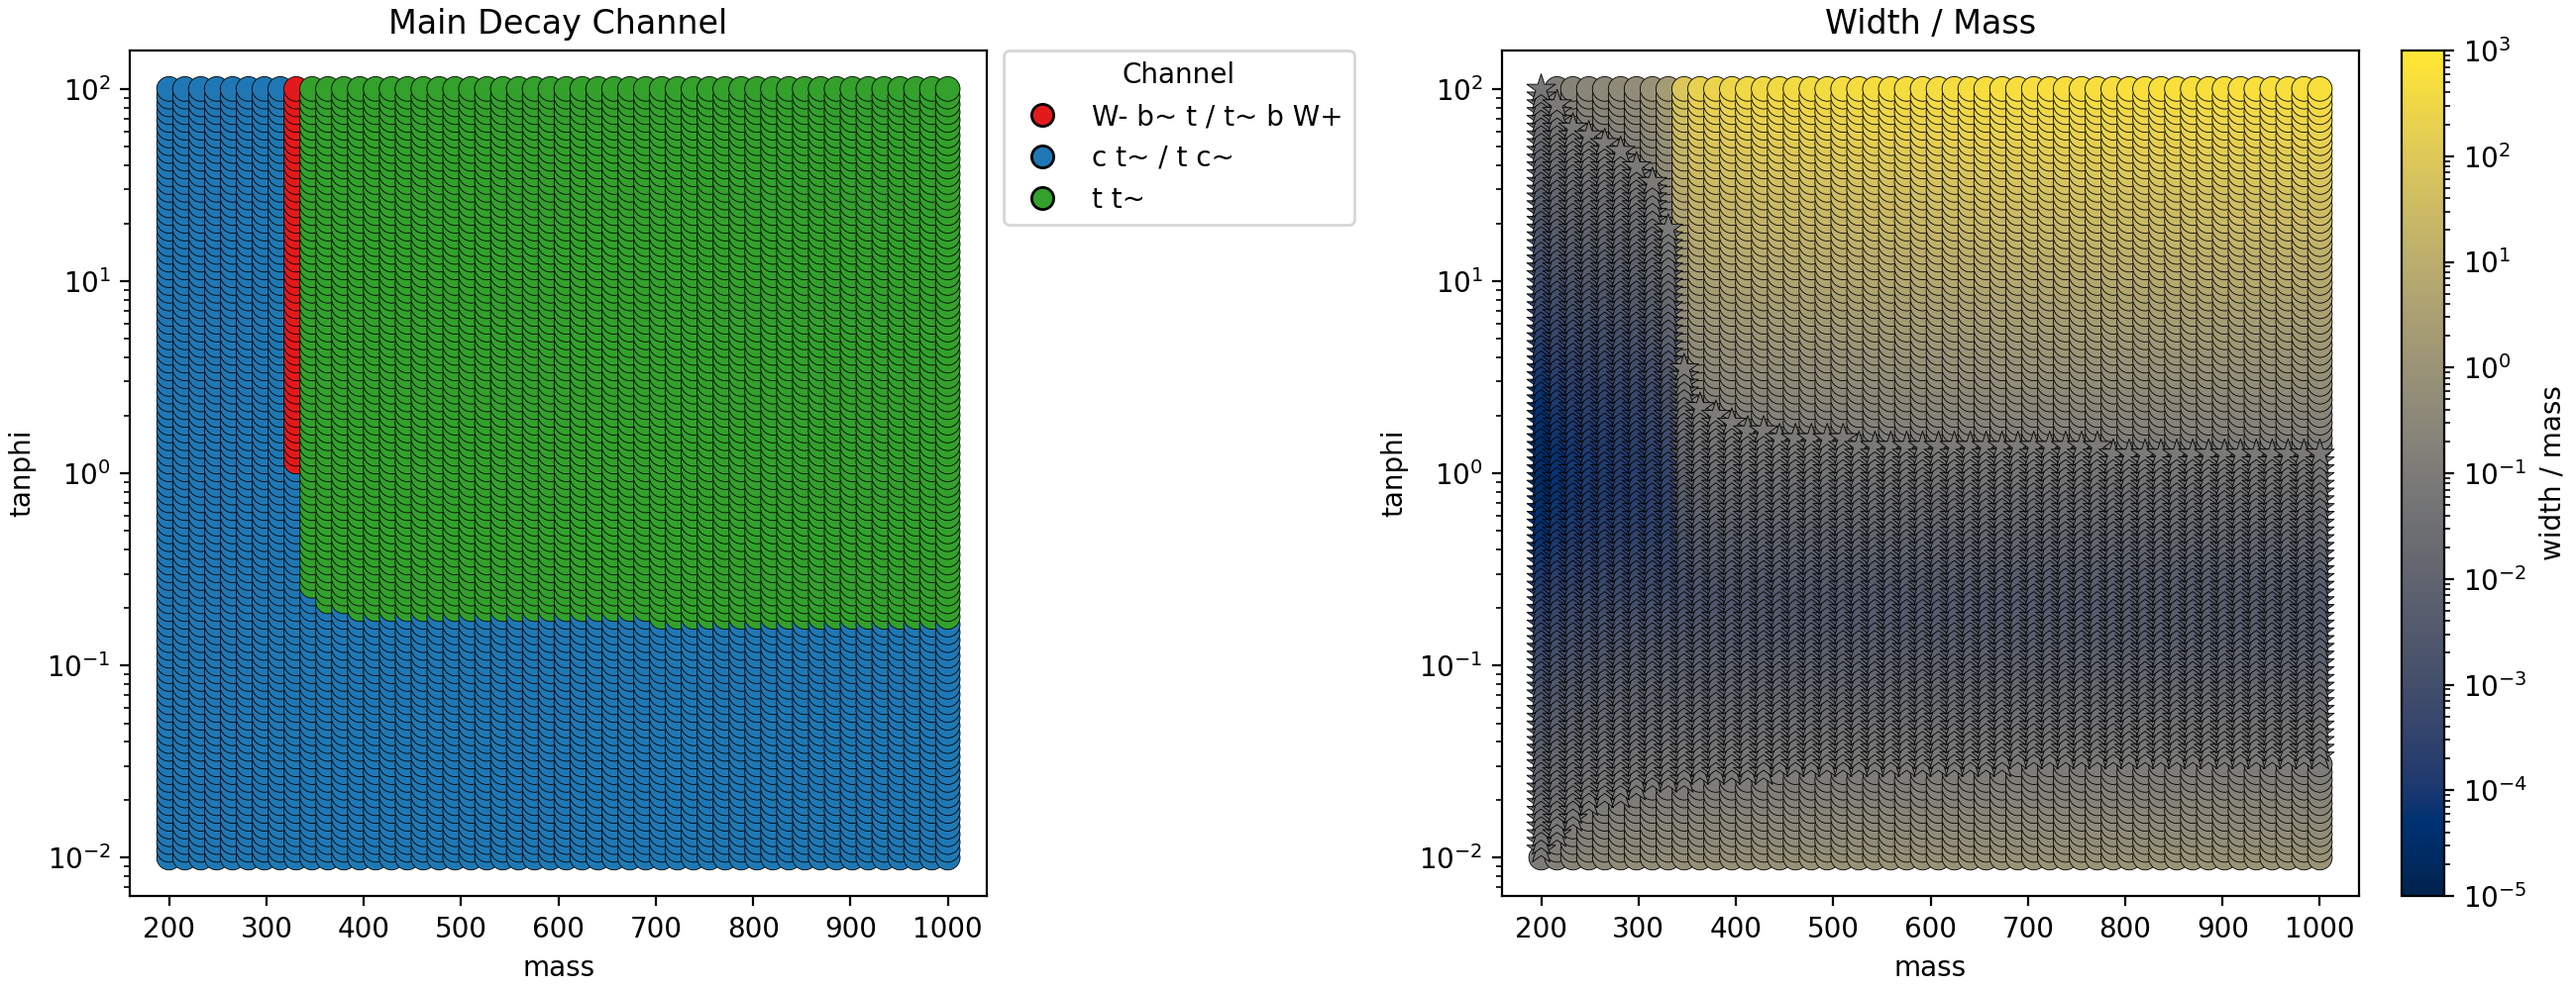
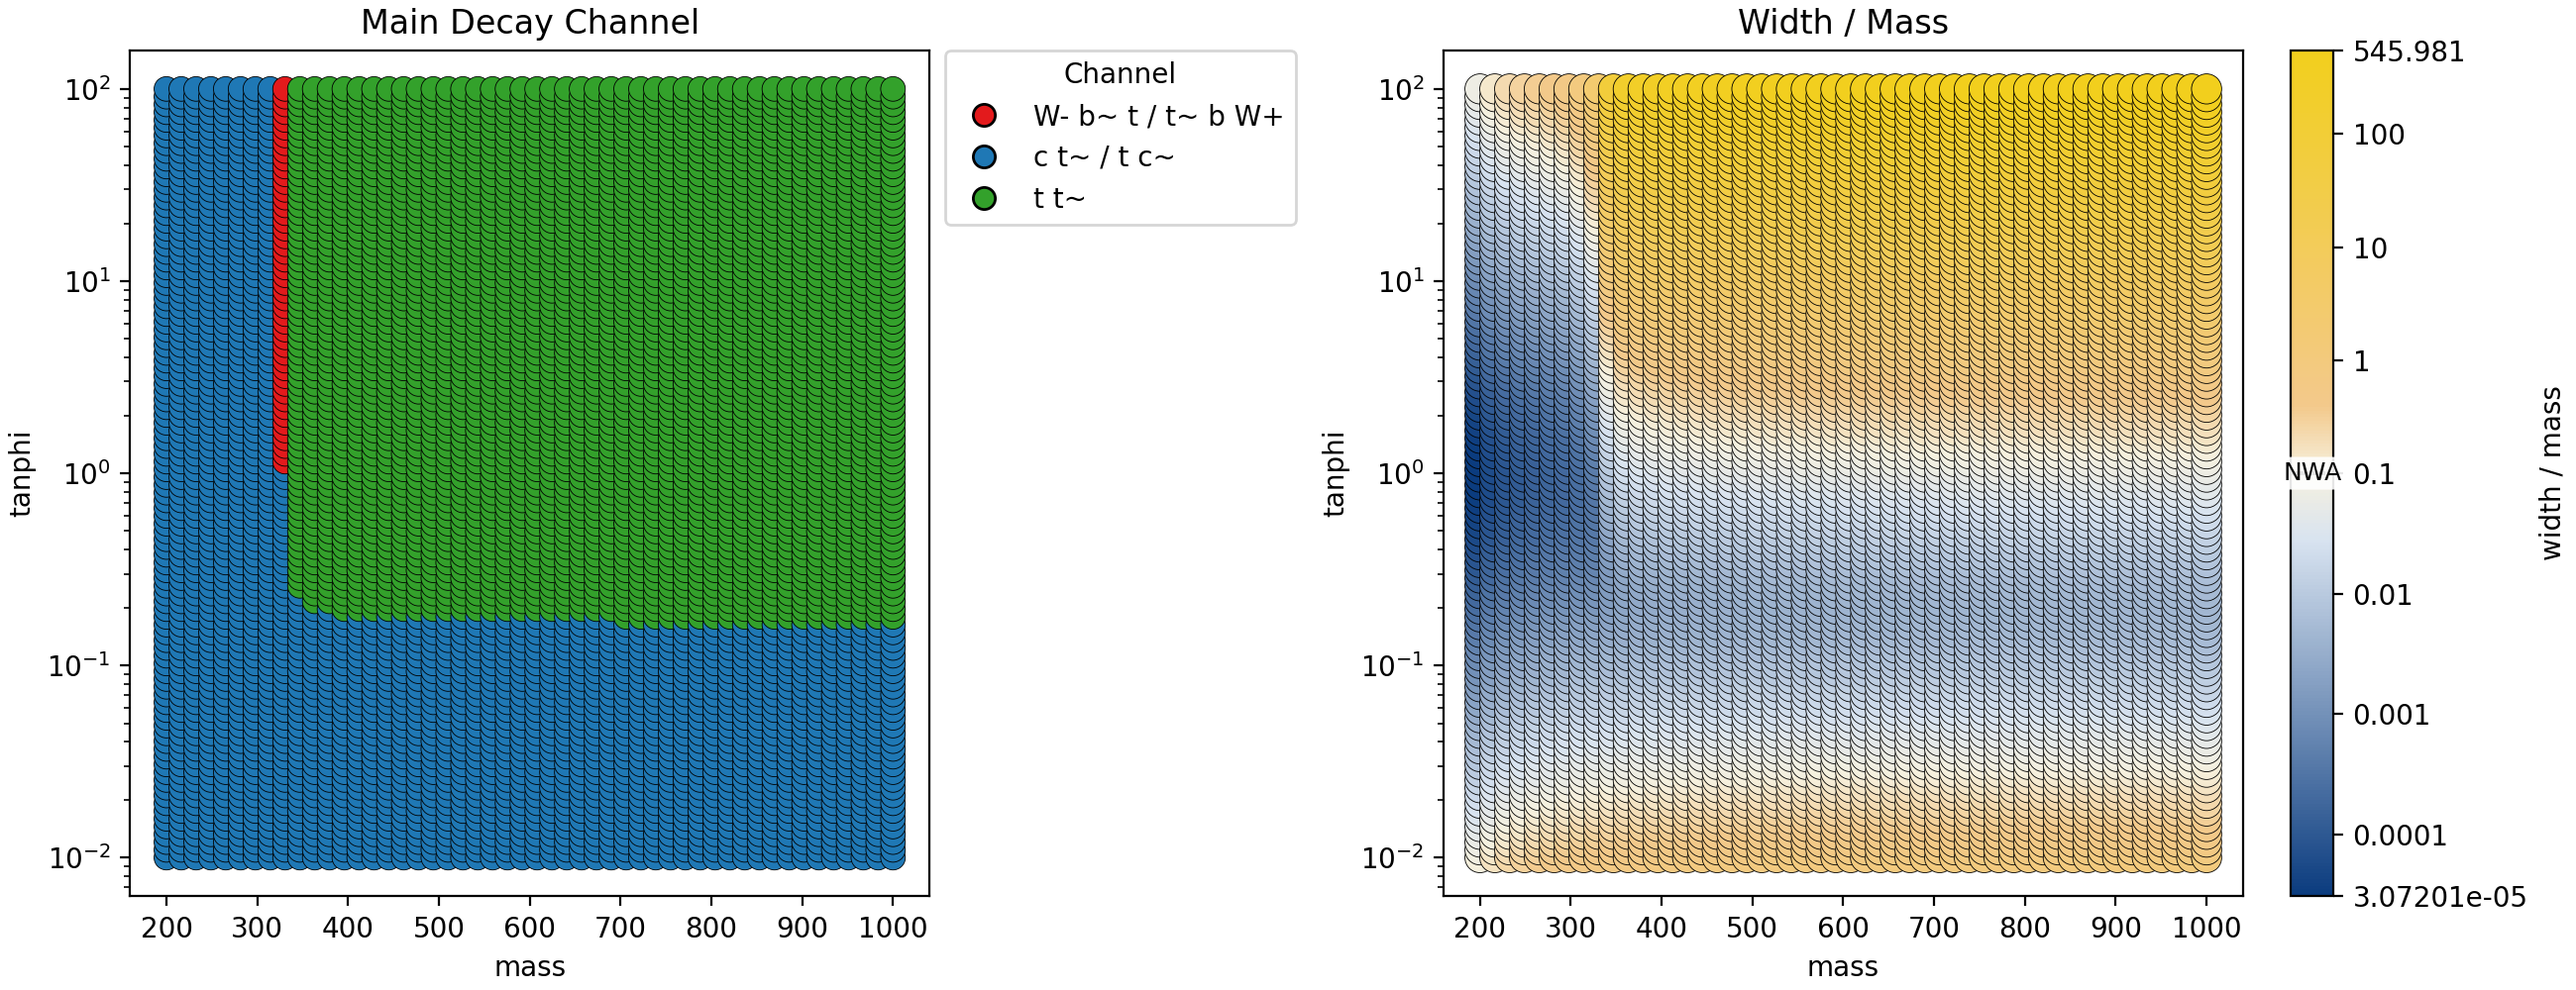
decay width approximation plot adjustement

diff --git a/decays/decays-plot.py b/decays/decays-plot.py
@@ -11,15 +11,26 @@ os.environ.setdefault("MPLCONFIGDIR", str(MPLCONFIGDIR))
 
 import matplotlib.pyplot as plt
 import pandas as pd
-from matplotlib import cm
+from matplotlib.colors import LinearSegmentedColormap
 from matplotlib.colors import ListedColormap
-from matplotlib.colors import LogNorm
-from matplotlib.ticker import LogFormatterMathtext
+from matplotlib.colors import TwoSlopeNorm
 from matplotlib.lines import Line2D
 
 
 DEFAULT_INPUT = Path(__file__).resolve().with_name("decays.csv")
 DEFAULT_OUTPUT = Path(__file__).resolve().with_name("decays.png")
+NWA_THRESHOLD = 0.1
+
+WIDTH_RATIO_CMAP = LinearSegmentedColormap.from_list(
+    "width_ratio_threshold_map",
+    [
+        (0.0, "#0b3c7f"),
+        (0.42, "#d8e3f0"),
+        (0.5, "#f6f1df"),
+        (0.58, "#f3c98b"),
+        (1.0, "#f2cf1d"),
+    ],
+)
 
 CHARGE_CONJUGATE_LABELS = {
     "-24": "24",
@@ -183,36 +194,25 @@ def main() -> int:
     positive_width_ratio = data["total width/mass"][data["total width/mass"] > 0]
     if positive_width_ratio.empty:
         raise ValueError("All width/mass values are non-positive; cannot use log color scale.")
-    tick_min_exp = math.floor(math.log10(positive_width_ratio.min()))
-    tick_max_exp = math.ceil(math.log10(positive_width_ratio.max()))
-    colorbar_ticks = [10**exponent for exponent in range(tick_min_exp, tick_max_exp + 1)]
-    width_ratio_cmap = "cividis"
-    width_ratio_norm = LogNorm(
-        vmin=10**tick_min_exp,
-        vmax=10**tick_max_exp,
-    )
-    low_width_mask = data["total width/mass"] < 0.1
-    high_width_mask = ~low_width_mask
+    width_ratio_min = float(positive_width_ratio.min())
+    width_ratio_max = float(positive_width_ratio.max())
+    if not (width_ratio_min < NWA_THRESHOLD < width_ratio_max):
+        raise ValueError("The NWA threshold must lie inside the positive width/mass range.")
 
-    axes[1].scatter(
-        data.loc[high_width_mask, "mass"],
-        data.loc[high_width_mask, "tanphi"],
-        c=data.loc[high_width_mask, "total width/mass"],
-        cmap=width_ratio_cmap,
-        norm=width_ratio_norm,
-        s=80,
-        marker="o",
-        edgecolors="black",
-        linewidths=0.3,
+    log_width_ratio = data["total width/mass"].clip(lower=width_ratio_min).map(math.log10)
+    width_ratio_norm = TwoSlopeNorm(
+        vmin=math.log10(width_ratio_min),
+        vcenter=math.log10(NWA_THRESHOLD),
+        vmax=math.log10(width_ratio_max),
     )
-    axes[1].scatter(
-        data.loc[low_width_mask, "mass"],
-        data.loc[low_width_mask, "tanphi"],
-        c=data.loc[low_width_mask, "total width/mass"],
-        cmap=width_ratio_cmap,
+    scatter_width_ratio = axes[1].scatter(
+        data["mass"],
+        data["tanphi"],
+        c=log_width_ratio,
+        cmap=WIDTH_RATIO_CMAP,
         norm=width_ratio_norm,
         s=120,
-        marker="*",
+        marker="o",
         edgecolors="black",
         linewidths=0.3,
     )
@@ -221,13 +221,34 @@ def main() -> int:
     axes[1].set_ylabel("tanphi")
     axes[1].set_yscale("log")
     colorbar = fig.colorbar(
-        cm.ScalarMappable(norm=width_ratio_norm, cmap=width_ratio_cmap),
+        scatter_width_ratio,
         ax=axes[1],
         label="width / mass",
-        ticks=colorbar_ticks,
     )
-    colorbar.formatter = LogFormatterMathtext(base=10.0)
-    colorbar.update_ticks()
+    colorbar_ticks = [
+        value
+        for value in [width_ratio_min, 1e-4, 1e-3, 1e-2, NWA_THRESHOLD, 1.0, 10.0, 100.0, width_ratio_max]
+        if width_ratio_min <= value <= width_ratio_max
+    ]
+    colorbar.set_ticks([math.log10(value) for value in colorbar_ticks])
+    colorbar.set_ticklabels([f"{value:g}" for value in colorbar_ticks])
+    threshold_position = math.log10(NWA_THRESHOLD)
+    colorbar.ax.axhline(threshold_position, color="black", linewidth=1.4, linestyle="--")
+    colorbar.ax.text(
+        0.5,
+        threshold_position,
+        "NWA",
+        transform=colorbar.ax.get_yaxis_transform(),
+        va="center",
+        ha="center",
+        fontsize=9,
+        bbox={
+            "boxstyle": "round,pad=0.18",
+            "facecolor": "white",
+            "edgecolor": "none",
+            "alpha": 0.9,
+        },
+    )
 
     fig.savefig(args.output, dpi=200)
     plt.close(fig)
